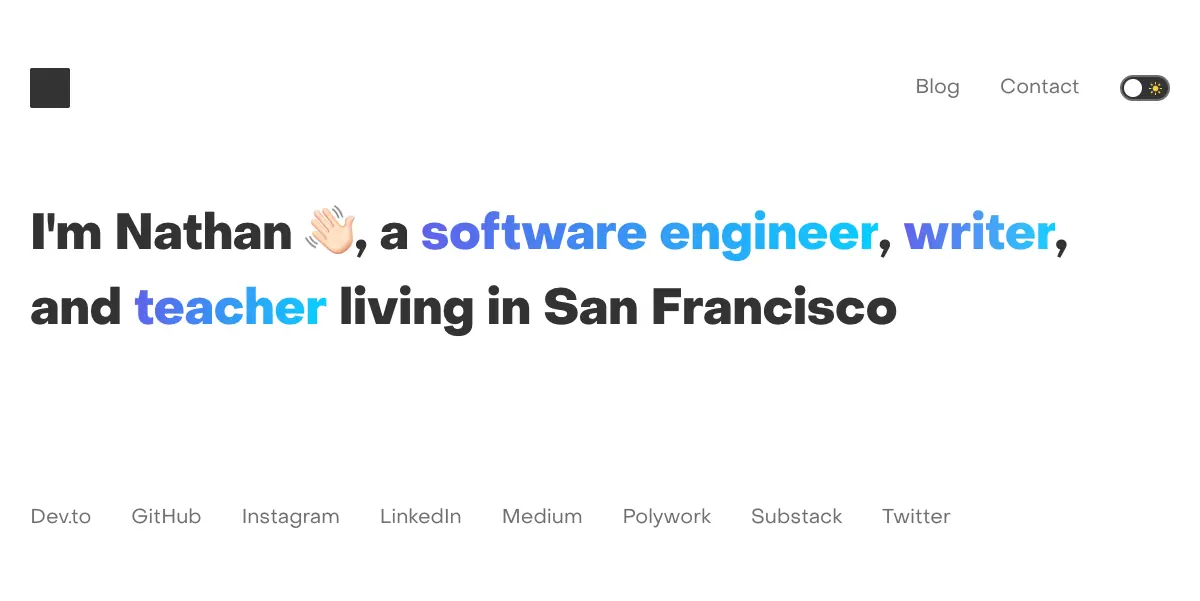
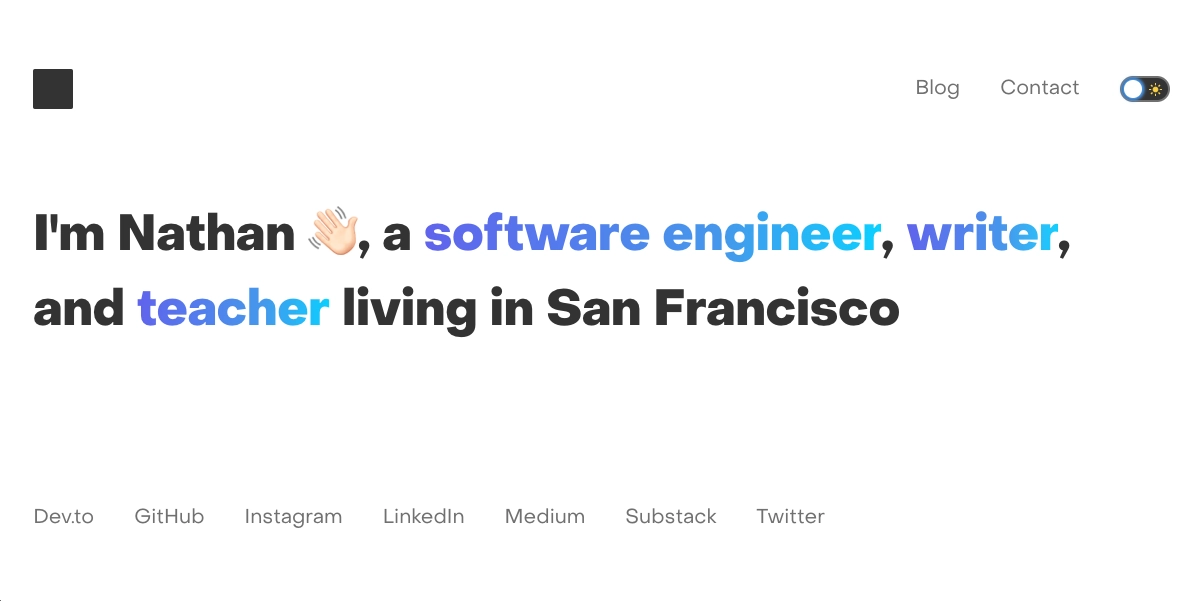
Fix home page OG and gradients on dyanmic og

diff --git a/client/pages/og-image.tsx b/client/pages/og-image.tsx
@@ -47,7 +47,7 @@ const RootStyles = styled.div`
     -moz-background-clip: text;
     -webkit-background-clip: text;
     background-image: ${({ theme }) =>
-      `linear-gradient(90deg, ${theme.colorsHex.lavender} 0%, ${theme.colorsHex.orchid} 33%, ${theme.colorsHex.brilliantRose} 66%, ${theme.colorsHex.brilliantRose} 100%)`};
+      `linear-gradient(90deg, ${theme.colorsHex.royalBlue} 0%, ${theme.colorsHex.pictonBlue} 65%, ${theme.colorsHex.brightTurquoise} 100%)`};
     color: ${({ theme }) => theme.colorsHex.mercury};
     font-size: 10rem;
     line-height: 1.3;